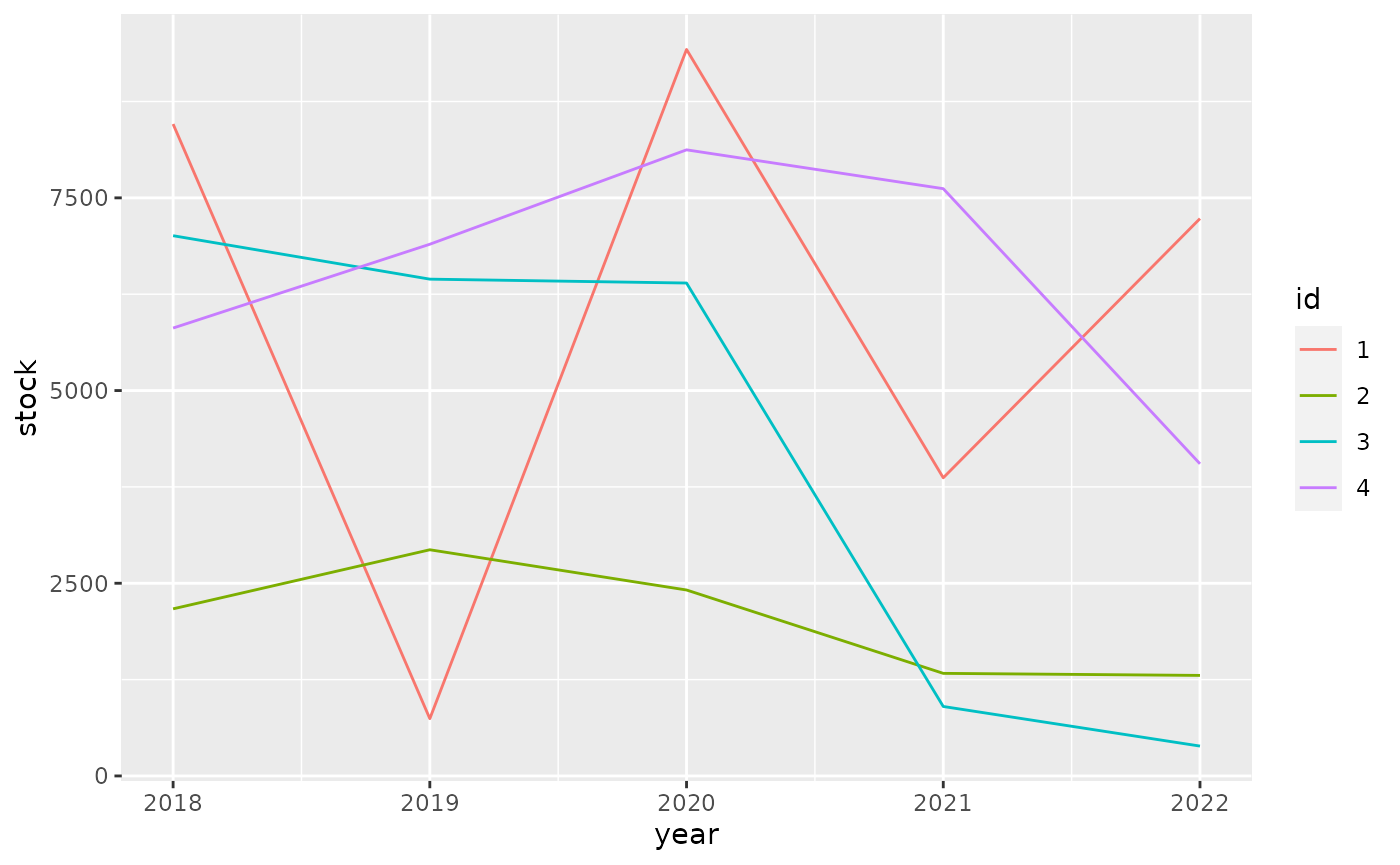
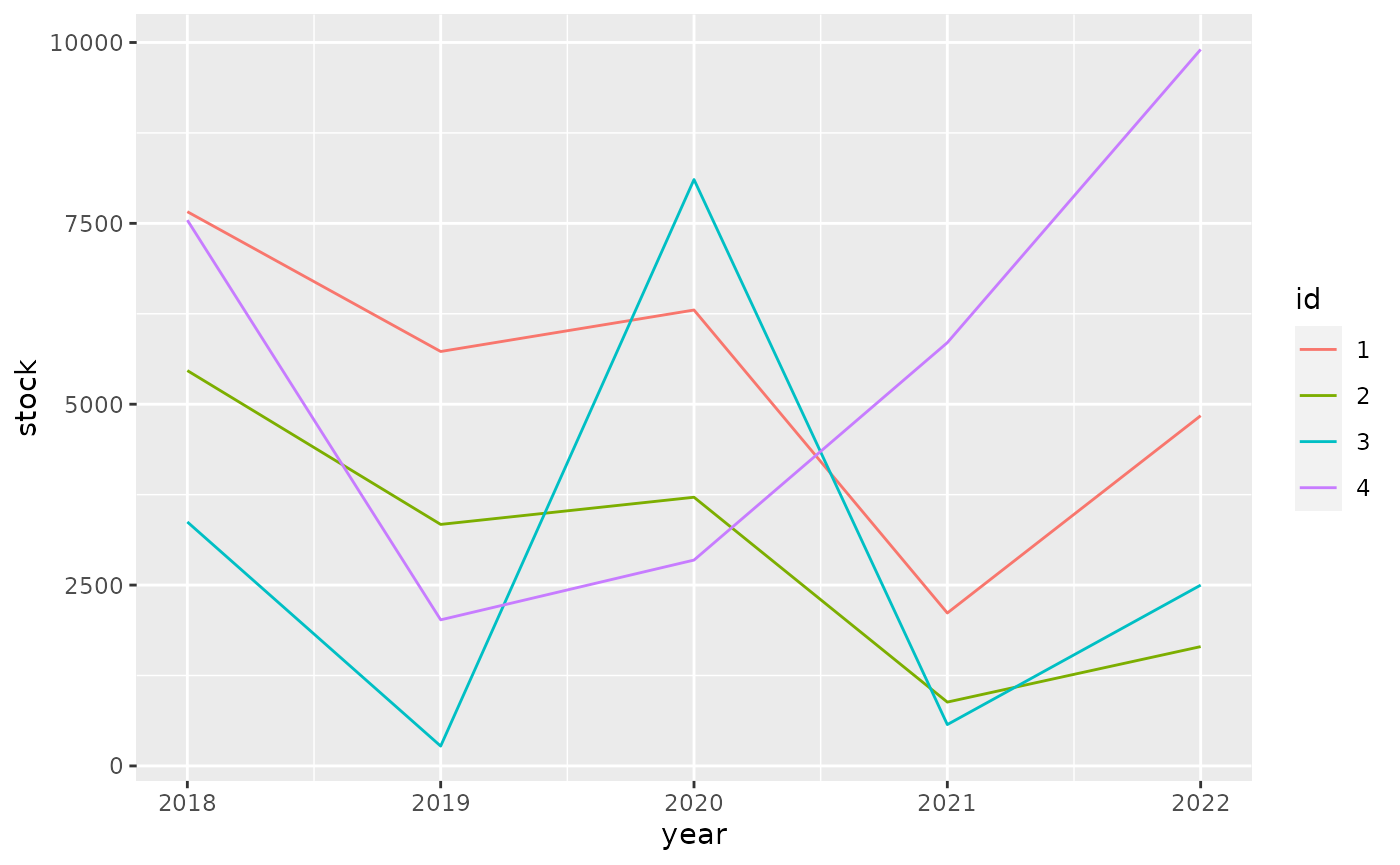
Built site for tibble: 3.1.3.9002@c3ee6dc

diff --git a/dev/articles/formats.html b/dev/articles/formats.html
@@ -227,10 +227,10 @@
 <span class="co">#&gt; # A tibble: 4 × 6</span>
 <span class="co">#&gt;   id       `2018`    `2019`    `2020`    `2021`    `2022`</span>
 <span class="co">#&gt;   &lt;fct&gt; &lt;dbl:fmt&gt; &lt;dbl:fmt&gt; &lt;dbl:fmt&gt; &lt;dbl:fmt&gt; &lt;dbl:fmt&gt;</span>
-<span class="co">#&gt; 1 1     $8,457.74   $743.11 $9,425.52 $3,868.24 $7,230.94</span>
-<span class="co">#&gt; 2 2     $2,167.99 $2,934.47 $2,412.47 $1,330.92 $1,304.35</span>
-<span class="co">#&gt; 3 3     $7,009.05 $6,445.36 $6,394.94   $901.27   $387.48</span>
-<span class="co">#&gt; 4 4     $5,810.85 $6,898.29 $8,123.06 $7,619.17 $4,049.62</span></code></pre></div>
+<span class="co">#&gt; 1 1     $7,661.11 $5,728.66 $6,302.03 $2,113.89 $4,841.08</span>
+<span class="co">#&gt; 2 2     $5,464.90 $3,338.58 $3,714.08   $882.45 $1,649.33</span>
+<span class="co">#&gt; 3 3     $3,372.59   $274.43 $8,105.78   $571.82 $2,499.17</span>
+<span class="co">#&gt; 4 4     $7,544.59 $2,019.52 $2,845.64 $5,850.95 $9,903.89</span></code></pre></div>
 <p>For ggplot2 we need to do <a href="https://github.com/tidyverse/ggplot2/pull/4065" class="external-link">some work</a> to show apply the formatting to the scales.</p>
 <div class="sourceCode" id="cb6"><pre class="downlit sourceCode r">
 <code class="sourceCode R"><span class="kw"><a href="https://rdrr.io/r/base/library.html" class="external-link">library</a></span><span class="op">(</span><span class="va"><a href="https://ggplot2.tidyverse.org" class="external-link">ggplot2</a></span><span class="op">)</span>
@@ -241,10 +241,10 @@
   <span class="fu"><a href="https://ggplot2.tidyverse.org/reference/geom_path.html" class="external-link">geom_line</a></span><span class="op">(</span><span class="op">)</span></code></pre></div>
 <p><img src="formats_files/figure-html/unnamed-chunk-7-1.png" width="700"></p>
 <p>It pays off to specify formatting very early in the process. The diagram below shows the principal stages of data analysis and exploration from “R for data science”.</p>
-<div id="htmlwidget-9f44c9be79ae2c4afc84" style="width:700px;height:432.632880098888px;" class="DiagrammeR html-widget"></div>
-<script type="application/json" data-for="htmlwidget-9f44c9be79ae2c4afc84">{"x":{"diagram":"graph TD\n  Import --> Tidy\n  Tidy --> Transform\n  Transform --> Visualize\n  Visualize --> Communicate\n  Visualize --> Model\n  Model -.-> Transform"},"evals":[],"jsHooks":[]}</script><p>The subsequent diagram adds data formats, communication options, and explicit data formatting. The original r4ds transitions are highlighted in bold. There are two principal options where to apply formatting for results: right before communicating them, or right after importing.</p>
-<div id="htmlwidget-3971d60bfcb8afab0d29" style="width:700px;height:432.632880098888px;" class="DiagrammeR html-widget"></div>
-<script type="application/json" data-for="htmlwidget-3971d60bfcb8afab0d29">{"x":{"diagram":"graph TD\n  .csv --> Import\n  API --> Import\n  DBI --> Import\n  dbplyr --> Import\n  Import -.-> Format[Format for analysis]\n  Format -.-> Tidy\n\n  subgraph r4ds\n  Import ==> Tidy\n  Tidy ==> Transform\n  Transform ==> Visualize\n  Visualize ==> Model\n  Model -.-> Transform\n  Visualize ==> Communicate\n  end\n\n  Visualize -.-> FormatComm[Format for communication]\n  FormatComm -.-> Communicate\n\n  FormatComm -- Apply formatting early --> Format\n\n  dbplyr -.-> Tidy\n  dbplyr -.-> Transform\n  dbplyr -.-> Visualize\n\n  Communicate --> gt\n  Communicate --> ggplot2\n  Communicate --> DT\n  Communicate --> plotly"},"evals":[],"jsHooks":[]}</script><p>Applying formatting early in the process gives the added benefit of showing the data in a useful format during the “Tidy”, “Transform”, and “Visualize” stages. For this to be useful, we need to ensure that the formatting options applied early:</p>
+<div id="htmlwidget-e71fc86f8da19ca04772" style="width:700px;height:432.632880098888px;" class="DiagrammeR html-widget"></div>
+<script type="application/json" data-for="htmlwidget-e71fc86f8da19ca04772">{"x":{"diagram":"graph TD\n  Import --> Tidy\n  Tidy --> Transform\n  Transform --> Visualize\n  Visualize --> Communicate\n  Visualize --> Model\n  Model -.-> Transform"},"evals":[],"jsHooks":[]}</script><p>The subsequent diagram adds data formats, communication options, and explicit data formatting. The original r4ds transitions are highlighted in bold. There are two principal options where to apply formatting for results: right before communicating them, or right after importing.</p>
+<div id="htmlwidget-dcf9a14586b1faea4503" style="width:700px;height:432.632880098888px;" class="DiagrammeR html-widget"></div>
+<script type="application/json" data-for="htmlwidget-dcf9a14586b1faea4503">{"x":{"diagram":"graph TD\n  .csv --> Import\n  API --> Import\n  DBI --> Import\n  dbplyr --> Import\n  Import -.-> Format[Format for analysis]\n  Format -.-> Tidy\n\n  subgraph r4ds\n  Import ==> Tidy\n  Tidy ==> Transform\n  Transform ==> Visualize\n  Visualize ==> Model\n  Model -.-> Transform\n  Visualize ==> Communicate\n  end\n\n  Visualize -.-> FormatComm[Format for communication]\n  FormatComm -.-> Communicate\n\n  FormatComm -- Apply formatting early --> Format\n\n  dbplyr -.-> Tidy\n  dbplyr -.-> Transform\n  dbplyr -.-> Visualize\n\n  Communicate --> gt\n  Communicate --> ggplot2\n  Communicate --> DT\n  Communicate --> plotly"},"evals":[],"jsHooks":[]}</script><p>Applying formatting early in the process gives the added benefit of showing the data in a useful format during the “Tidy”, “Transform”, and “Visualize” stages. For this to be useful, we need to ensure that the formatting options applied early:</p>
 <ul>
 <li>give a good user experience for analysis
 <ul>

diff --git a/dev/articles/types.html b/dev/articles/types.html
@@ -358,7 +358,7 @@
 #&gt; $ factor        &lt;fct&gt; A
 #&gt; $ ordered       &lt;ord&gt; a
 #&gt; $ Date          &lt;date&gt; 2021-08-06
-#&gt; $ POSIXt        &lt;dttm&gt; 2021-08-06 04:49:33
+#&gt; $ POSIXt        &lt;dttm&gt; 2021-08-06 05:01:51
 #&gt; $ difftime      &lt;drtn&gt; 1 secs
 #&gt; $ hms           &lt;time&gt; 00:00:01
 #&gt; $ integer64     &lt;int64&gt; 10000000000
@@ -394,7 +394,7 @@
 <span class="co">#&gt;             "sym"</span>
 <span class="co">#&gt;         }, typeof(x))</span>
 <span class="co">#&gt; }</span>
-<span class="co">#&gt; &lt;bytecode: 0x55e7e22fd100&gt;</span>
+<span class="co">#&gt; &lt;bytecode: 0x55ce93b7ed10&gt;</span>
 <span class="co">#&gt; &lt;environment: namespace:pillar&gt;</span></code></pre></div>
 </div>
   </div>
